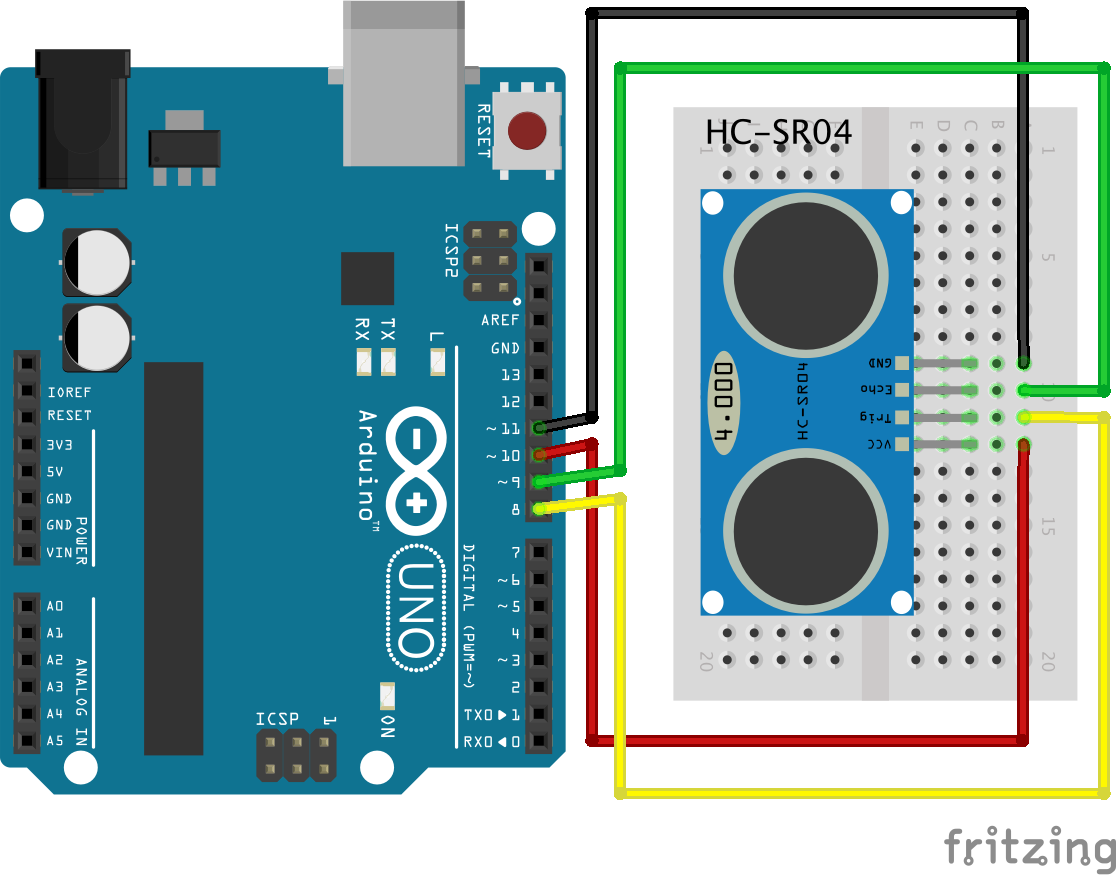
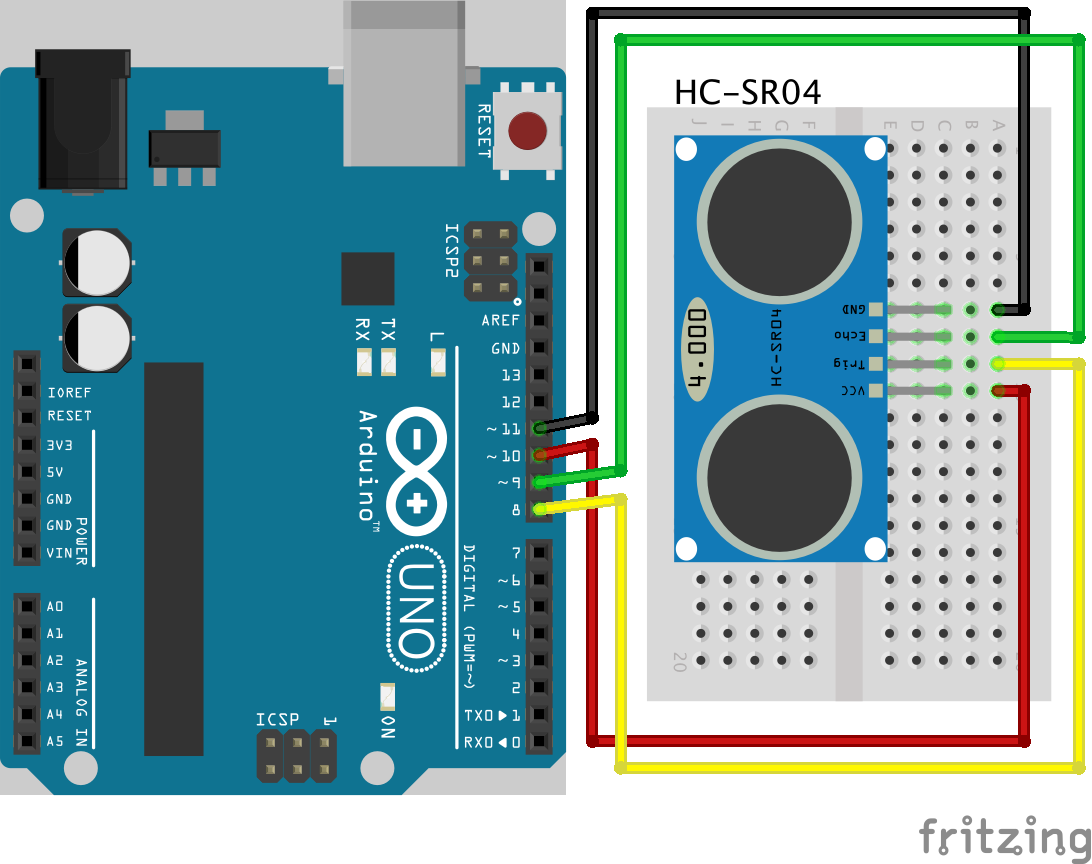
adjusted the circut diagram.

diff --git a/mylib/behave.h b/mylib/behave.h
@@ -2,6 +2,6 @@
 #define _behave_h
 #include <Arduino.h>
 
-void behavePower(int vcc, int gnd);
+void behavePower(int, int);
 
 #endif
